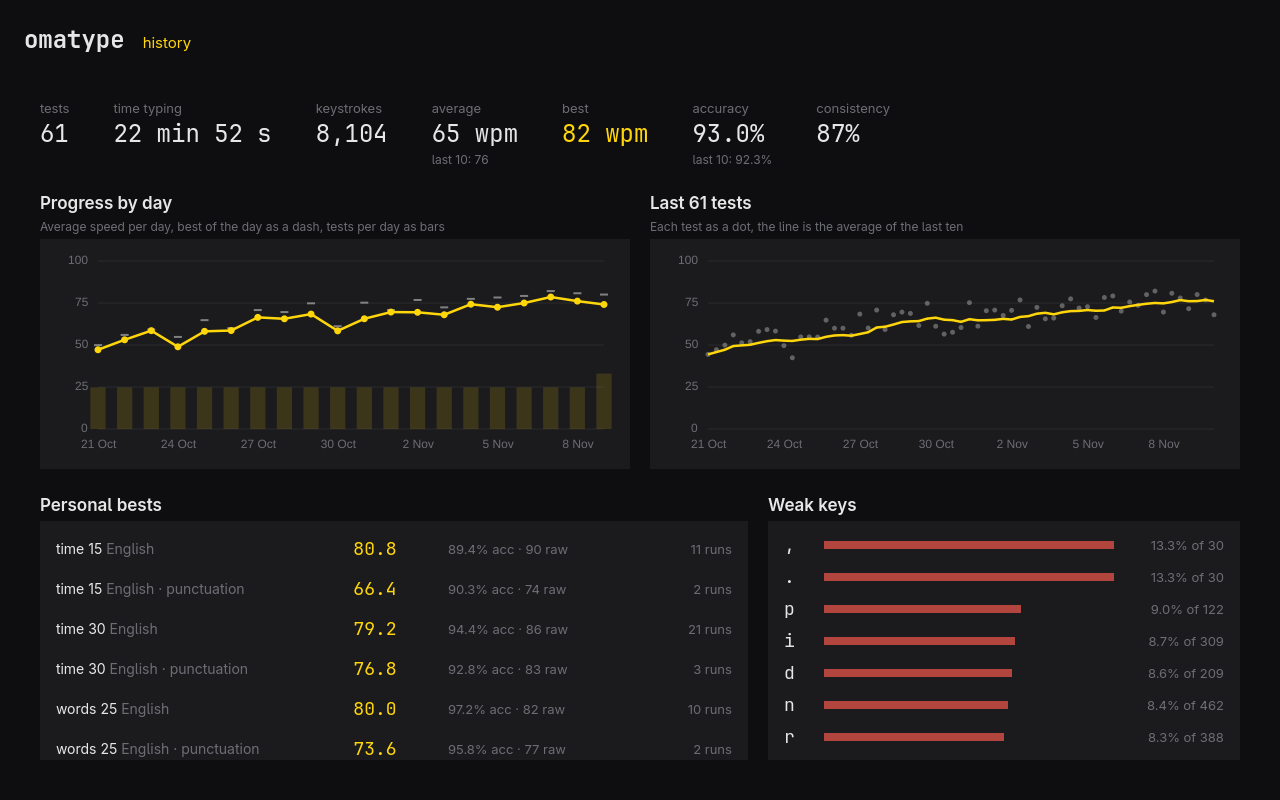
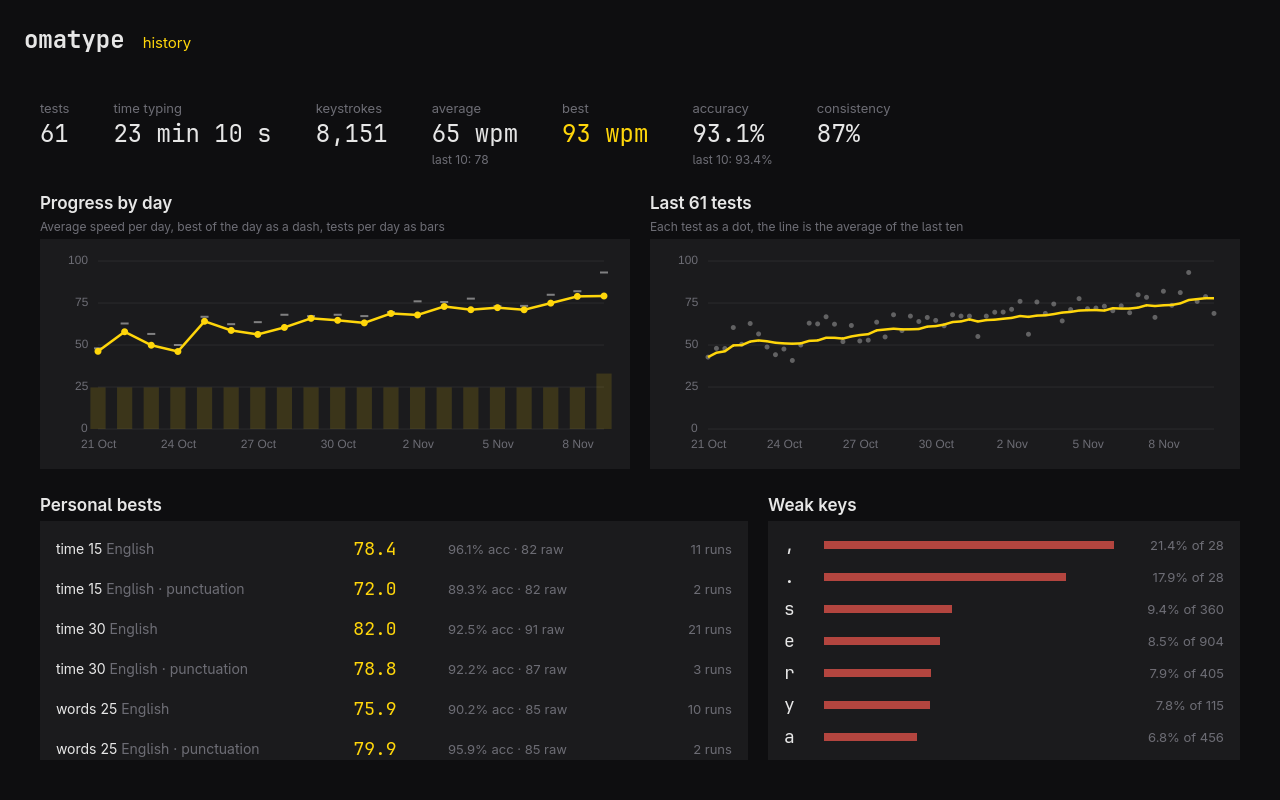
Mark as work in progress and refresh the screenshots

diff --git a/README.md b/README.md
@@ -1,6 +1,11 @@
 # omatype
 
-![omatype showing a finished test](docs/result.png)
+> **Work in progress.** omatype is an early draft: it works and keeps your
+> history, but expect rough edges, missing features, and changes to the stats
+> and the database between versions. There is no release or package in
+> Omarchy's repositories yet; build it from source.
+
+![omatype during a test](docs/typing.png)
 
 A typing trainer for [Omarchy](https://omarchy.org) that keeps every keystroke
 and turns them into stats. It runs offline, follows the Omarchy theme live
@@ -16,7 +21,11 @@ and turns them into stats. It runs offline, follows the Omarchy theme live
   bests for each kind of test, the keys you miss most, and every past test,
   graph included.
 
+![The result of a test](docs/result.png)
+
 ![History and stats](docs/history.png)
+
+Screenshots use made-up practice data.
 
 ## Keys
 
